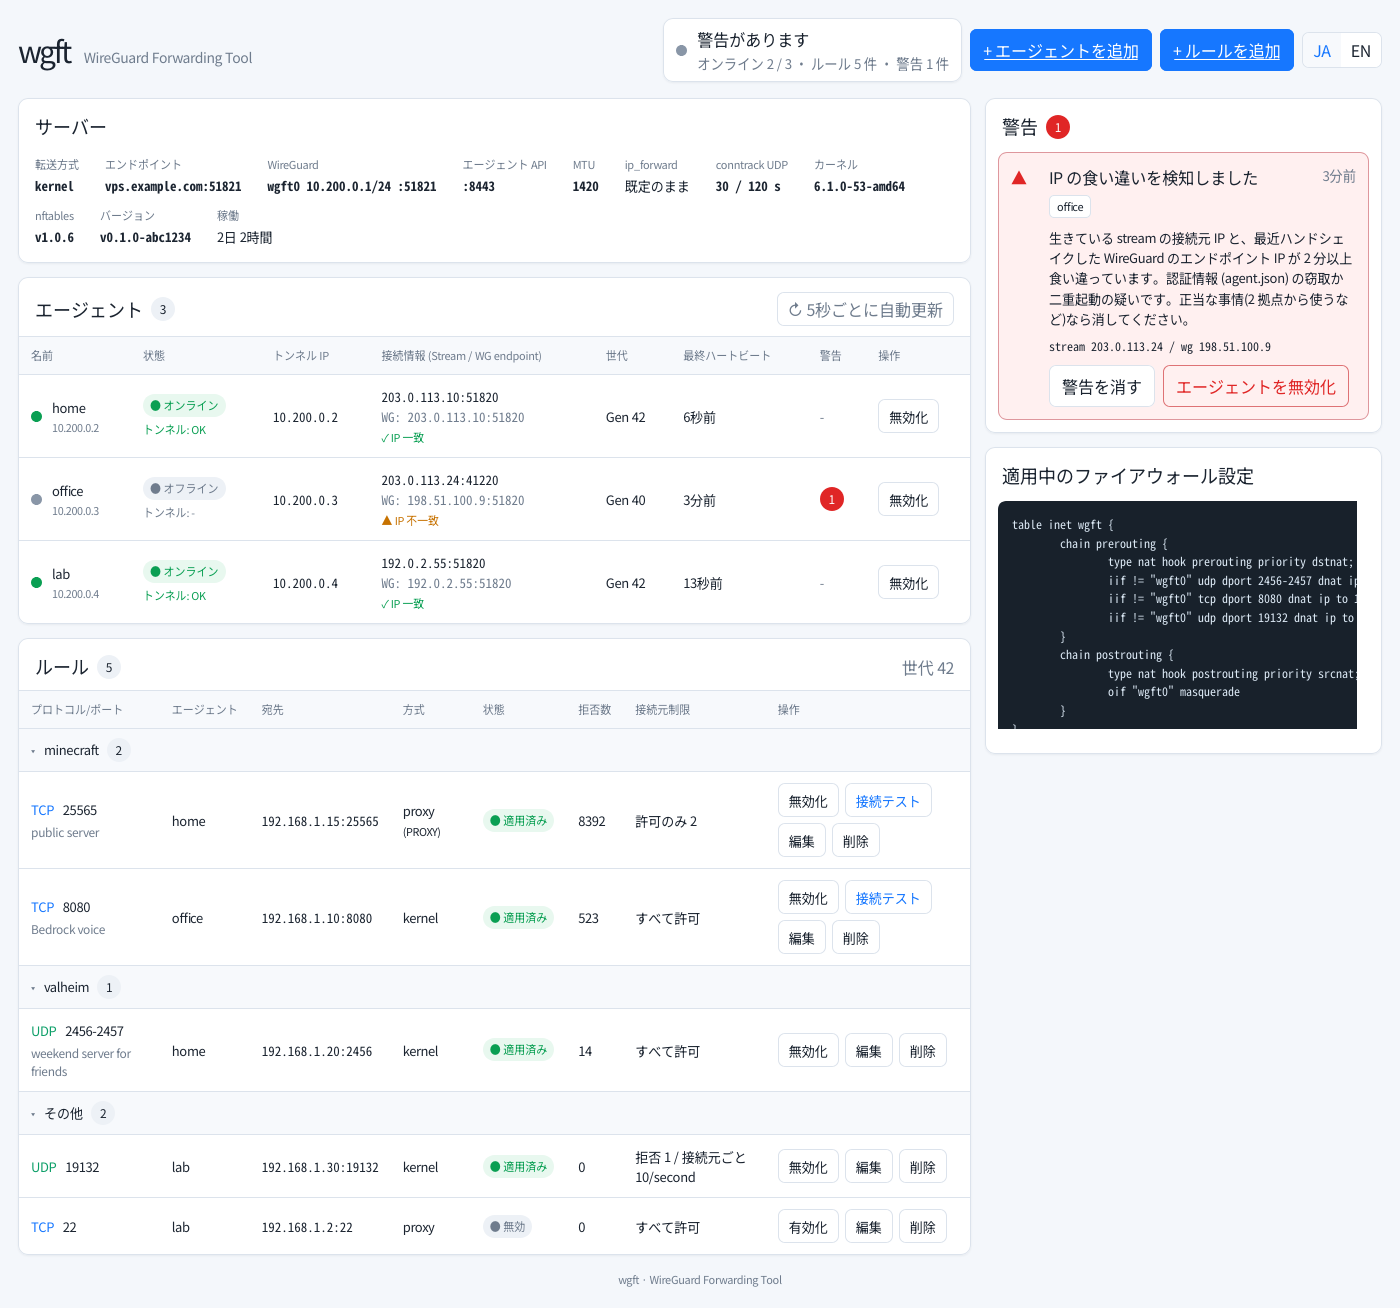
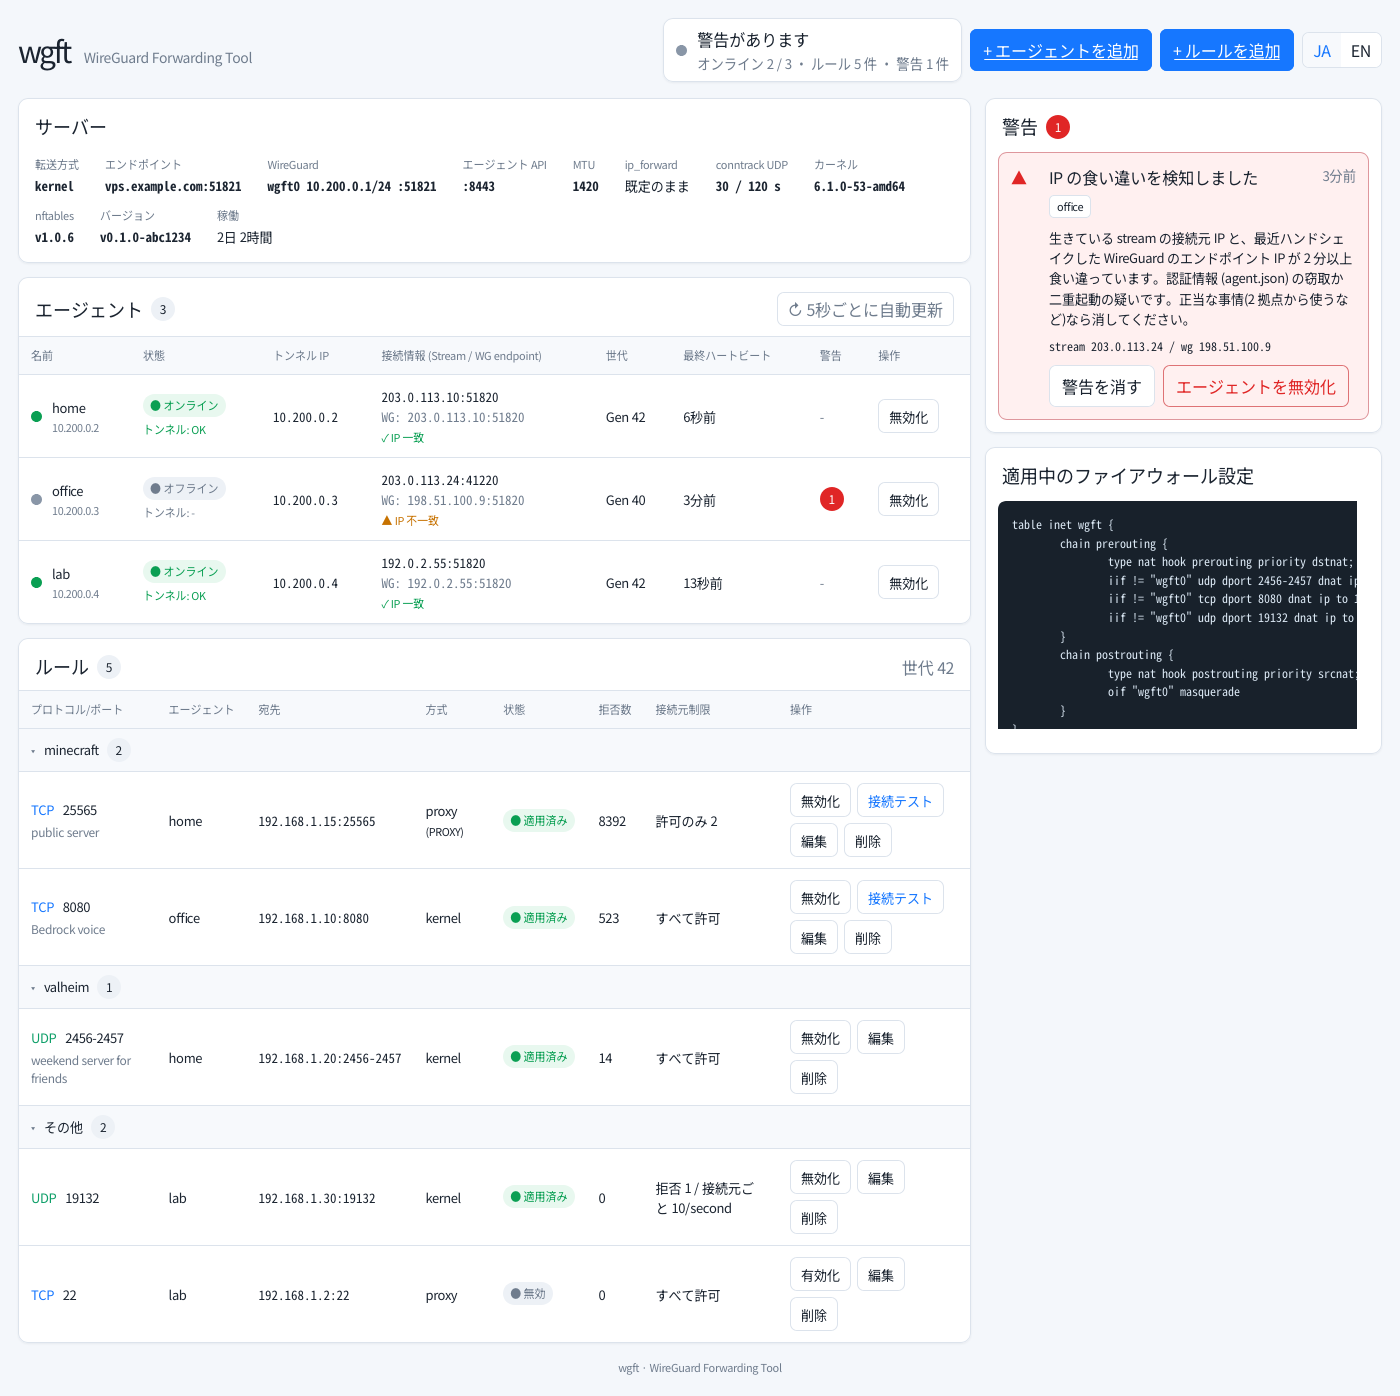
fix(ui): show the effective destination range for port-range rules
A rule with listen port 2456-2457 and target host:2456 relays 2457 to host:2457, but the
dashboard and rule ls printed the stored host:2456, which reads as if both ports were sent to
one port. Both now show host:2456-2457; the stored value and the API are unchanged. The add
form explains the mapping in its help text and previews the range in the flow diagram, and
the --to flag and the README say the target names the first port.

The screenshot demo moves to port 8687 and refuses to run when the port is busy, so an SSH
forward of a real admin socket on 8686 can no longer end up in the captured images.

diff --git a/internal/vpsd/admin/webui/static/app.js b/internal/vpsd/admin/webui/static/app.js
@@ -45,6 +45,16 @@
     var flowListen = document.getElementById("flow-listen");
     var flowAgent = document.getElementById("flow-agent");
     var flowTarget = document.getElementById("flow-target");
+    // A listen port range maps onto the destination starting at its port, one port after another,
+    // so show the destination as host:lo-hi (the same shape as the rules list).
+    function effectiveTarget(listenValue, targetValue) {
+      var range = /^(\d+)-(\d+)$/.exec(listenValue);
+      var hp = /^(.*):(\d+)$/.exec(targetValue);
+      if (!range || !hp) return targetValue;
+      var width = parseInt(range[2], 10) - parseInt(range[1], 10);
+      if (!(width > 0)) return targetValue;
+      return hp[1] + ":" + hp[2] + "-" + (parseInt(hp[2], 10) + width);
+    }
     var listenLabel = flowListen ? flowListen.textContent.replace(/^:/, "") : "";
     var agentLabel = flowAgent ? flowAgent.textContent : "";
     var targetLabel = flowTarget ? flowTarget.textContent : "";
@@ -61,7 +71,7 @@
     function updateFlow() {
       if (flowListen) flowListen.textContent = ":" + (listen && listen.value.trim() ? listen.value.trim() : listenLabel);
       if (flowAgent) flowAgent.textContent = agentName();
-      if (flowTarget) flowTarget.textContent = (target && target.value.trim()) ? target.value.trim() : targetLabel;
+      if (flowTarget) flowTarget.textContent = (target && target.value.trim()) ? effectiveTarget(listen ? listen.value.trim() : "", target.value.trim()) : targetLabel;
     }
     function updateMode() {
       if (proxyOnly) proxyOnly.hidden = !(proxyRadio && proxyRadio.checked);

diff --git a/internal/vpsd/admin/i18n.go b/internal/vpsd/admin/i18n.go
@@ -122,10 +122,11 @@ var tr = map[string][2]string{
 	"flowClient":   {"外部クライアント", "Client"},
 	"flowAgentN":   {"エージェント", "Agent"},
 	"flowTargetN":  {"転送先", "Destination"},
+	"flowPortN":    {"ポート", "port"},
 	"fListen":      {"受信ポート", "Listen port"},
 	"fListenHelp":  {"VPS の公開ポート。外部クライアントが繋ぐ先(例 25565 や 2456-2457)", "Public port on the VPS that clients connect to (e.g. 25565 or 2456-2457)"},
 	"fDest":        {"転送先", "Destination"},
-	"fDestHelp":    {"エージェントが中継する自宅の host:port。受信と別ポートでもよい", "Home host:port the agent relays to. May differ from the listen port"},
+	"fDestHelp":    {"エージェントが中継する自宅の host:port。受信ポートと違ってもよい。受信ポートが範囲のときは先頭のポートを書き、以降は連番で写る(受信 2456-2457 と宛先 :2456 なら、2457 は :2457 へ)", "Home host:port the agent relays to; it may differ from the listen port. For a listen port range, write the first port and the rest follow in order (listen 2456-2457 with :2456 sends 2457 to :2457)"},
 	"fAdvanced":    {"転送方式と強制追加", "Forwarding mode and force"},
 	"fModeKernel":  {"そのまま転送(既定)", "Forward as-is (default)"},
 	"fModeKernelH": {"UDP・TCP どちらも。カーネルの DNAT で転送する", "Both UDP and TCP. Forwards via the kernel’s DNAT"},

diff --git a/cmd/wgft/rule.go b/cmd/wgft/rule.go
@@ -112,7 +112,7 @@ func newRuleAddCmd() *cobra.Command {
 	add.Flags().StringVar(&agent, "agent", "", "agent name")
 	add.Flags().StringVar(&udp, "udp", "", "UDP port to listen on at the VPS; range allowed")
 	add.Flags().StringVar(&tcp, "tcp", "", "TCP port to listen on at the VPS; range allowed")
-	add.Flags().StringVar(&to, "to", "", "target host:port on the home side")
+	add.Flags().StringVar(&to, "to", "", "target host:port on the home side; for a listen port range, the first port (the rest follow in order)")
 	add.Flags().StringVar(&group, "group", "", "group to bundle rules under; optional, alphanumerics and - _ ., up to 32 chars")
 	add.Flags().StringVar(&note, "note", "", "note describing the rule's purpose; optional, up to 120 chars")
 	add.Flags().BoolVar(&proxy, "proxy", false, "server accepts and relays TCP in proxy mode")
@@ -173,7 +173,7 @@ func newRuleLsCmd() *cobra.Command {
 						}
 					}
 					sort.Strings(rates)
-					fmt.Fprintf(w, "  %s\t%s\t%s\t%s\t%s\t%s\t%v\t%d\t%d\t%s\t%d\t%s\n", short(r.ID), r.Agent, r.Proto, r.ListenPort, r.Target, r.VPSMode, r.Enabled,
+					fmt.Fprintf(w, "  %s\t%s\t%s\t%s\t%s\t%s\t%v\t%d\t%d\t%s\t%d\t%s\n", short(r.ID), r.Agent, r.Proto, r.ListenPort, r.TargetDisplay(), r.VPSMode, r.Enabled,
 						len(r.SourceDeny), len(r.SourceAllow), strings.Join(rates, ","), res.Drops[r.ID], truncNote(r.Note))
 				}
 				w.Flush()

diff --git a/tools/uidemo/main.go b/tools/uidemo/main.go
@@ -1,6 +1,6 @@
 // Package main は README のスクリーンショット撮影用の使い捨てデモである。
 // internal/vpsd/admin パッケージの公開 API (New, Serve) だけを使い、
-// 固定のサンプルデータを返す Backend で Web UI を 127.0.0.1:8686 (TCP) に立てる。
+// 固定のサンプルデータを返す Backend で Web UI を 127.0.0.1:8687 (TCP) に立てる。
 // nftables や WireGuard には一切触れない。起動は scripts/screenshot-ui.sh から行う想定で、
 // 単体でも `go run ./tools/uidemo` で動く (Ctrl-C で終了)。
 //
@@ -23,7 +23,7 @@ import (
 )
 
 // listenAddr は Web UI の待ち受け先。scripts/screenshot-ui.sh もこの値を使う。
-const listenAddr = "127.0.0.1:8686"
+const listenAddr = "127.0.0.1:8687"
 
 func main() {
 	if err := run(); err != nil {

diff --git a/proto/rule.go b/proto/rule.go
@@ -165,3 +165,17 @@ func splitTarget(target string) (host string, port uint16, err error) {
 	}
 	return host, uint16(n), nil
 }
+
+// TargetDisplay は表示用の実効宛先。listen_port が範囲なら、target の先頭ポートから連番で写した
+// 範囲を host:lo-hi の形で返す(仕様 5.3 節)。単一ポートや解釈できない値は target をそのまま返す。
+func (r Rule) TargetDisplay() string {
+	if r.ListenPort.Lo == r.ListenPort.Hi {
+		return r.Target
+	}
+	host, port, err := splitTarget(r.Target)
+	if err != nil {
+		return r.Target
+	}
+	hi := int(port) + int(r.ListenPort.Hi) - int(r.ListenPort.Lo)
+	return net.JoinHostPort(host, strconv.Itoa(int(port))) + "-" + strconv.Itoa(hi)
+}

diff --git a/proto/proto_test.go b/proto/proto_test.go
@@ -316,3 +316,21 @@ func TestGroupNoteValidation(t *testing.T) {
 		t.Errorf("正当な group/note が弾かれた: %v", err)
 	}
 }
+
+func TestTargetDisplay(t *testing.T) {
+	cases := []struct {
+		lo, hi       uint16
+		target, want string
+	}{
+		{2456, 2457, "192.168.1.20:2456", "192.168.1.20:2456-2457"},
+		{25565, 25565, "192.168.1.20:25565", "192.168.1.20:25565"},
+		{80, 81, "nas.lan:8080", "nas.lan:8080-8081"},
+		{1, 2, "broken", "broken"},
+	}
+	for _, c := range cases {
+		r := Rule{ListenPort: PortRange{Lo: c.lo, Hi: c.hi}, Target: c.target}
+		if got := r.TargetDisplay(); got != c.want {
+			t.Errorf("%d-%d %s: got %q, want %q", c.lo, c.hi, c.target, got, c.want)
+		}
+	}
+}

diff --git a/internal/vpsd/admin/webui.go b/internal/vpsd/admin/webui.go
@@ -188,7 +188,7 @@ func agentToView(a AgentInfo, latestGen uint64, locale string) agentView {
 }
 
 func ruleToView(r *proto.Rule, drops map[string]uint64, locale string) ruleView {
-	v := ruleView{ID: r.ID, Agent: r.Agent, Target: r.Target, Mode: string(r.VPSMode),
+	v := ruleView{ID: r.ID, Agent: r.Agent, Target: r.TargetDisplay(), Mode: string(r.VPSMode),
 		ProxyProtocol: r.ProxyProtocol, Enabled: r.Enabled, Ports: r.ListenPort.String()}
 	v.ProtoUpper = strings.ToUpper(string(r.Proto))
 	if r.Proto == proto.UDP {

diff --git a/CLAUDE.md b/CLAUDE.md
@@ -54,7 +54,7 @@ nftables や WireGuard の挙動を確かめる使い捨ての実験コードは
 
 README.md と README.ja.md が使う `docs/images/dashboard.png`(英語)と `dashboard.ja.png`(日本語)は、`scripts/screenshot-ui.sh` で撮影します。ラボの VM も実機の VPS も要りません。
 
-このスクリプトは `tools/uidemo` をビルドして 127.0.0.1:8686 に Web UI を起動します。`tools/uidemo` は admin パッケージの公開 API(`New`、`Serve`)だけを使い、固定のサンプルデータ(エージェント 3 台、5 グループのルール、警告 1 件)を返す Backend です。サーバーが起動したら、Headless Firefox で `?lang=en` と `?lang=ja` の 2 枚を撮影し、`docs/images` へ上書きしてからサーバーを止めます。撮影には Firefox(`/usr/bin/firefox`)が要ります。
+このスクリプトは `tools/uidemo` をビルドして 127.0.0.1:8687 に Web UI を起動します。8687 が使われていれば止まります (実機の管理 API を SSH で転送している最中に実機の画面を撮ってしまわないため)。`tools/uidemo` は admin パッケージの公開 API(`New`、`Serve`)だけを使い、固定のサンプルデータ(エージェント 3 台、5 グループのルール、警告 1 件)を返す Backend です。サーバーが起動したら、Headless Firefox で `?lang=en` と `?lang=ja` の 2 枚を撮影し、`docs/images` へ上書きしてからサーバーを止めます。撮影には Firefox(`/usr/bin/firefox`)が要ります。
 
 手順は `bash scripts/screenshot-ui.sh` の実行だけです。Web UI のテンプレートや文言を変えたとき、サンプルデータの形を変えたときは、このコマンドで撮り直し、`git diff --stat` で差分の大きさを確かめてからコミットします。サンプルデータの値そのものは `tools/uidemo/main.go` にあります。
 

diff --git a/README.ja.md b/README.ja.md
@@ -193,7 +193,7 @@ sudo wgft rule add --agent home --udp 2456-2457 --to 192.168.1.20:2456 --group g
 sudo wgft rule add --agent home --tcp 443 --to 192.168.1.30:443 --proxy --proxy-protocol
 ```
 
-転送するポート (この例では UDP 2456-2457 と TCP 443) をファイアウォールで開け、`sudo wgft agent ls` の RULES 列が `ok` になれば完了です。ルールは数秒で自宅側に届き、追加や削除を行っても進行中のセッションは切断されません。不正な接続元があれば、`sudo wgft rule deny add <ルール ID> 203.0.113.0/24` で、通信中のフローを含めて遮断できます。ルール ID は、`rule ls` が表示する先頭部分だけで指定できます。
+ポートが範囲のときは、`--to` に先頭のポートを書きます。以降のポートは連番で写り、この例では 2457 が 192.168.1.20:2457 に届きます。転送するポート (この例では UDP 2456-2457 と TCP 443) をファイアウォールで開け、`sudo wgft agent ls` の RULES 列が `ok` になれば完了です。ルールは数秒で自宅側に届き、追加や削除を行っても進行中のセッションは切断されません。不正な接続元があれば、`sudo wgft rule deny add <ルール ID> 203.0.113.0/24` で、通信中のフローを含めて遮断できます。ルール ID は、`rule ls` が表示する先頭部分だけで指定できます。
 
 **HTTPS を出すには**
 

diff --git a/README.md b/README.md
@@ -195,7 +195,7 @@ sudo wgft rule add --agent home --udp 2456-2457 --to 192.168.1.20:2456 --group g
 sudo wgft rule add --agent home --tcp 443 --to 192.168.1.30:443 --proxy --proxy-protocol
 ```
 
-Open the forwarded ports in the firewall (UDP 2456-2457 and TCP 443 here). Once `sudo wgft agent ls` shows `ok` in the RULES column, you are done. Rules reach the agent within seconds, and adding or removing one never drops sessions in progress. When someone abuses a port, `sudo wgft rule deny add <rule id> 203.0.113.0/24` blocks them, including flows already open. A unique prefix of the rule ID, as `rule ls` prints it, is enough.
+For a port range, `--to` names the first port and the rest follow in order, so 2457 reaches 192.168.1.20:2457 in this example. Open the forwarded ports in the firewall (UDP 2456-2457 and TCP 443 here). Once `sudo wgft agent ls` shows `ok` in the RULES column, you are done. Rules reach the agent within seconds, and adding or removing one never drops sessions in progress. When someone abuses a port, `sudo wgft rule deny add <rule id> 203.0.113.0/24` blocks them, including flows already open. A unique prefix of the rule ID, as `rule ls` prints it, is enough.
 
 **Publishing HTTPS**
 
